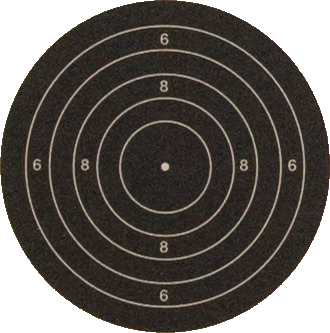
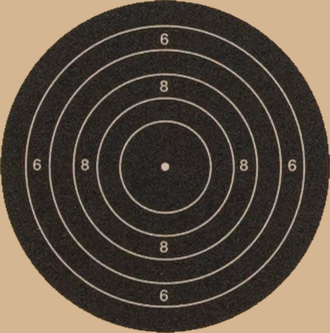
Auto creation of target frame from base image

diff --git a/Splatt.py b/Splatt.py
@@ -6,7 +6,6 @@
 
 #  TODO:
 #  Export of recorded data to CSV
-#  Auto-calibration (done)
 #  Scaling according to simulated distance
 #  Configuration (device IDs etc) - setup, store and retrieval
 
@@ -16,12 +15,23 @@ import sounddevice as sd # pip install sounddevice (requires libffi-dev)
 import random
 
 # Debug settings
-debug_level = False # 0 (off), 1 (info), 2 (detailed)
-debug_max = 2 # max debug level
+debug_level =  0 # 0 (off), 1 (info), 2 (detailed)
+debug_max = 2    # max debug level
+
+# Virtual shooting range (TODO: implement scaling)
+simulated_range_length = 25 # yards (doesn't matter as long
+real_range_length = 4       # as unit are the same)
+scale_factor = simulated_range_length / real_range_length
+
+# Target dimensions
+target_name = '25 yard prone'
+target_diameter = 51.39 # mm
+target_filename = '2010BM_89-18_to.png'
 
 # video capture object
 video_capture_device = 1 # TODO: make this better
 video_capture = cv2.VideoCapture(video_capture_device)
+captured_image_flip_needed = False # Whether the camera is mounted upside down
 
 # Check the video stream started ok
 assert video_capture.isOpened()
@@ -49,8 +59,8 @@ init_line_colour = (0, 0, 255, 0) # (Blue, Green, Red)
 shot_colour = (255, 0, 255)       # Magenta
 shot_size = 20                    # TODO: scale?
 line_thickness = 2
-card_colour = (147, 182, 213)     # Future use
-target_filename = "2010BM_89-18_640x480.png"
+
+# target_filename = "2010BM_89-18_640x480.png"
 colour_change_rate = (0, 15, -15) # Rates of colour change per frame (b, g, r)
 
 # Tuple of line colours
@@ -82,9 +92,31 @@ audio_stream = sd.Stream(
 shot_fired = False
 first_shot = True
 
-# Open target png for current and composite images
-target_image = cv2.imread(target_filename)
-composite_image = cv2.imread(target_filename)
+# Open target png  and create target_image and composite_image based on video frame size
+target_file_image = cv2.imread(target_filename)
+
+if ( target_file_image.shape[0] != target_file_image.shape[1]):
+    # Target image should be square
+    print('Warning: Target image is not square')
+
+# Resize the target image to fit the video frame
+target_file_image = cv2.resize(target_file_image, (video_height, video_height))
+
+# Create a new blank target image
+blank_target_image = np.zeros([video_height, video_width, 3], dtype = np.uint8)
+
+# And colour it the same as the bottom-left (is it?) pixel of the target file
+blank_target_image[:, :] = target_file_image[0:1, 0:1]
+
+# Calculate the horizontal offset for centering the target image within the frame
+target_offset = int(blank_target_image.shape[1]/2 - target_file_image.shape[1]/2)
+
+# Copy the target file into the blank target image
+blank_target_image[0:target_file_image.shape[1], target_offset:target_file_image.shape[0] + target_offset] = target_file_image
+
+# Copy the blank target image to the two images we use for display
+target_image = blank_target_image.copy()
+composite_image = blank_target_image.copy()
 
 # Start listening and check it started
 audio_stream.start()
@@ -101,6 +133,7 @@ def initialise_trace():
     line_colour = []
     shot_fired = False
     target_image = cv2.imread(target_filename)
+    target_image = blank_target_image.copy()
 
 def calibrate_offset():
     # Calibrate offset to point source
@@ -115,8 +148,10 @@ while True:
     video_ret, video_frame = video_capture.read()
     captured_image = video_frame.copy()
 
-    # Flip the image in both axes to get the position relative to the target correct
-    captured_image = cv2.flip(captured_image, -1)
+    # If set, flip the image
+    if captured_image_flip_needed:
+        captured_image = cv2.flip(captured_image, -1)
+        #captured_image = cv2.flip(captured_image, 1)
 
     # grey-ify the image
     grey_image = cv2.cvtColor(captured_image, cv2.COLOR_BGR2GRAY)
@@ -138,7 +173,20 @@ while True:
         volume_norm = np.linalg.norm(audio_data)*10
         
         # Add the discovered point to our list with the initial line colour
-        stored_trace.append((max_loc[0] + calib_XY[0], max_loc[1] + calib_XY[1]))
+        max_loc_x = int(( max_loc[0] + calib_XY[0] ) ) # TODO: Figure out the maths
+        max_loc_y = int(( max_loc[1] + calib_XY[1] ) ) # TODO: Figure out the maths
+
+        if max_loc_x < 0:
+            max_loc_x = 0
+        elif max_loc_x > video_width:
+            max_loc_x = video_width
+
+        if max_loc_y < 0:
+            max_loc_y = 0
+        elif max_loc_y > video_height:
+            max_loc_y = video_height
+            
+        stored_trace.append((max_loc_x, max_loc_y))
         line_colour.append(init_line_colour)
 
     # Plot the line traces so far
@@ -238,3 +286,8 @@ while True:
     elif key_press == ord('s'):
         # Save the composite image (and clear it?)
         cv2.imwrite(composite_output_file, composite_image)
+    
+    elif key_press == ord('f'):
+        # Change the flip mode
+        captured_image_flip_needed = not captured_image_flip_needed
+        print('Flip required:', captured_image_flip_needed)
